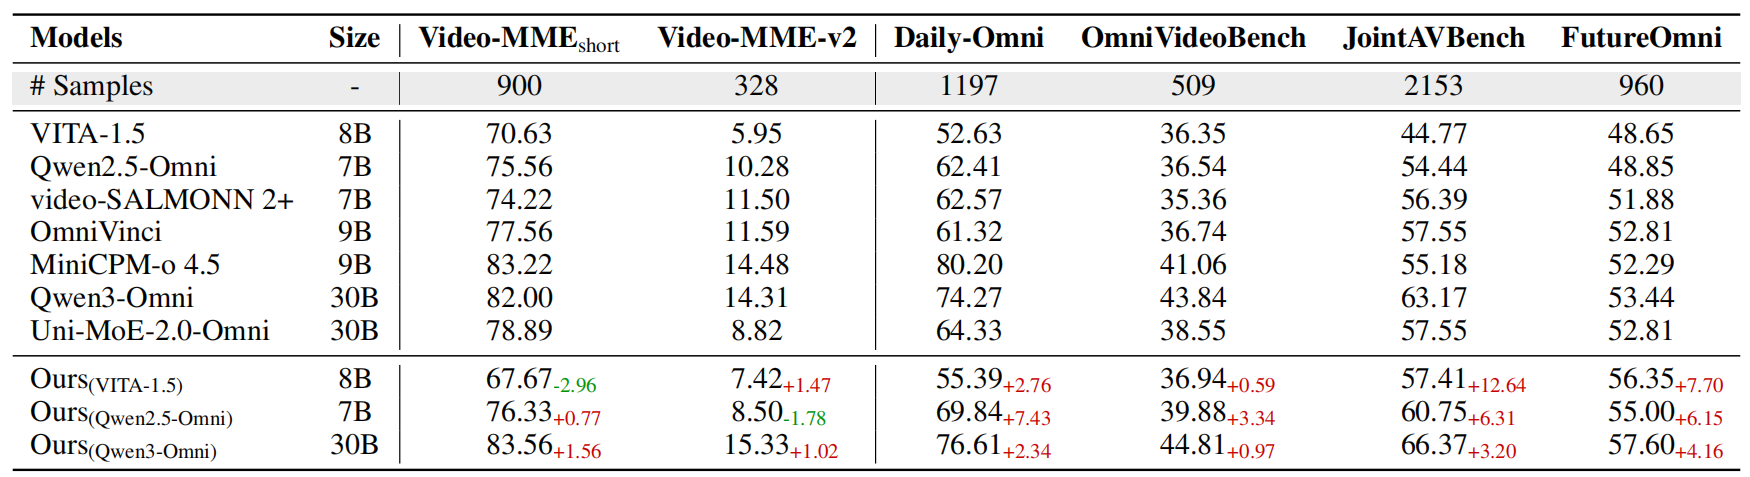
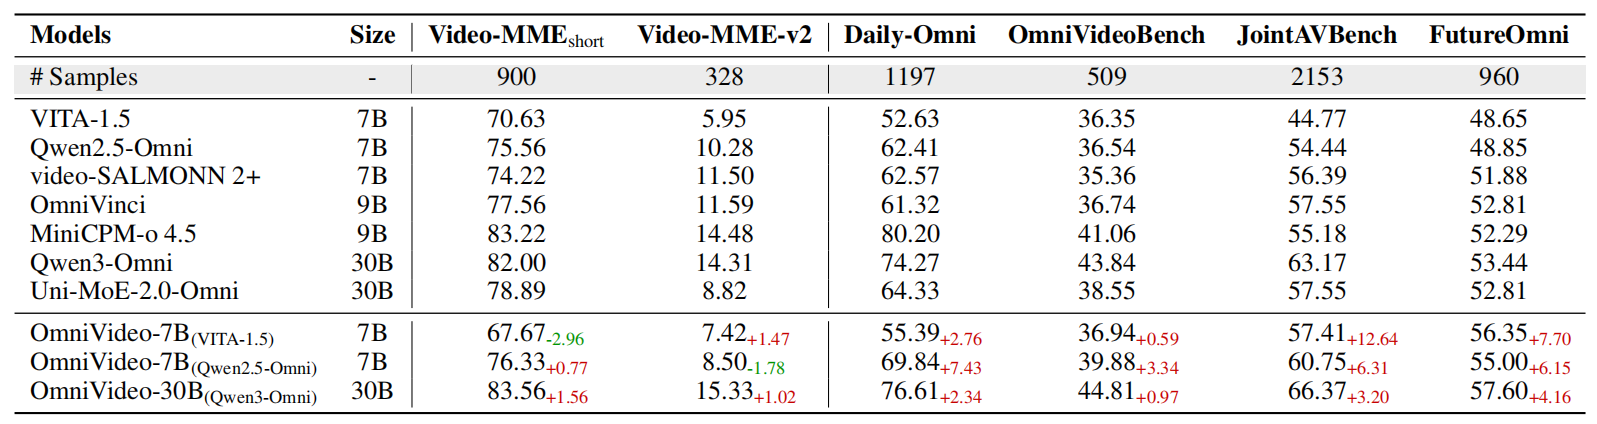
update

Changed region(s): [[0.0, 0.0, 1.0, 1.0]]

diff --git a/README.md b/README.md
@@ -19,9 +19,7 @@ Current "video-caption-QA" pipelines often suffer from modality bias, temporal m
 1. **Entity-Anchored Video Scripting**: Transforms raw videos into structured, script-like text (summaries, main entity lists, and segment-wise audio-visual descriptions with timestamps), ensuring cross-segment referential consistency and sound-source associations.
 2. **Clue-Guided QA Generation**: Prompts MLLMs to first mine cross-segment and cross-modal clues from the script, and subsequently generate complex QA pairs featuring long-term temporal spans and deep cross-modal dependencies.
 
-<p align="center">
-  <img src="docs/images/pipeline.png" alt="Framework Overview" width="90%"/>
-</p>
+![pipeline](assets/pipeline.png)
 
 
 ---
@@ -30,7 +28,7 @@ Current "video-caption-QA" pipelines often suffer from modality bias, temporal m
 
 Models fine-tuned on OmniVideo-100K achieve consistent performance gains across external audio-visual benchmarks (e.g., Daily-Omni, JointAVBench) while preserving their original capabilities on general video benchmarks like Video-MME.
 
-![Benchmarks](assets/benchmarks.png)
+![benchmarks](assets/benchmarks.png)
 
 ---
 
@@ -169,16 +167,7 @@ python evaluation.py \
 
 Fine-tuning on OmniVideo-100K yields significant improvements across Alignment, Understanding, and Reasoning tasks.
 
-| Models                  | Size |        Overall        | Alignment | Understanding | Reasoning | (0, 2]min | (2, 5]min |
-| :---------------------- | :--: | :-------------------: | :-------: | :-----------: | :-------: | :-------: | :-------: |
-| Human                   |  -   |      **100.0%**       |     -     |       -       |     -     |     -     |     -     |
-| Gemini-3.1-Pro          |  -   |        83.96%         |  83.62%   |    84.50%     |  83.21%   |  82.61%   |  84.59%   |
-| VITA-1.5                |  8B  |        40.99%         |  28.45%   |    43.02%     |  48.09%   |  44.72%   |  39.24%   |
-| Qwen2.5-Omni            |  7B  |        42.77%         |  39.66%   |    46.51%     |  38.17%   |  38.51%   |  44.77%   |
-| Qwen3-Omni              | 30B  |        49.70%         |  43.10%   |    55.04%     |  45.04%   |  49.07%   |  50.00%   |
-| **Ours (VITA-1.5)**     |  8B  | **61.58%** _(+20.59)_ |  59.48%   |    63.18%     |  60.31%   |  59.01%   |  62.79%   |
-| **Ours (Qwen2.5-Omni)** |  7B  | **60.59%** _(+17.82)_ |  62.93%   |    62.40%     |  54.96%   |  54.66%   |  63.37%   |
-| **Ours (Qwen3-Omni)**   | 30B  | **63.56%** _(+13.86)_ |  60.34%   |    67.05%     |  59.54%   |  62.11%   |  64.24%   |
+![omnivideo-test](assets/omnivideo-test.png)
 
 
 ---